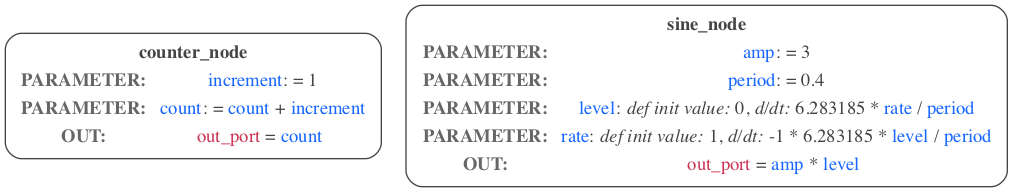
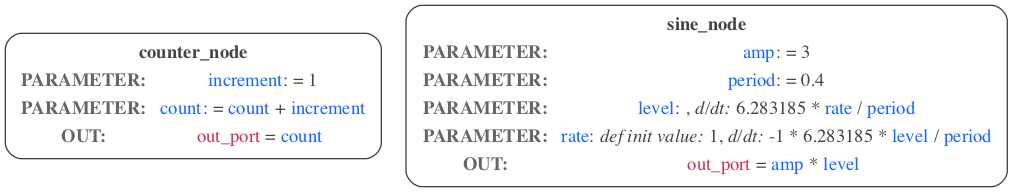
Updates for when default_initial_value is an int

Changed region(s): [[0.5508, 0.5312, 0.9793, 0.5938]]

diff --git a/src/modeci_mdf/interfaces/neuroml/exporter.py b/src/modeci_mdf/interfaces/neuroml/exporter.py
@@ -11,6 +11,7 @@ import neuromllite
 import lems.api as lems
 
 from modeci_mdf.functions.standard import mdf_functions, substitute_args
+from modeci_mdf.execution_engine import evaluate_expr
 
 
 def mdf_to_neuroml(graph, save_to=None, format=None, run_duration_sec=2):
@@ -112,7 +113,7 @@ def mdf_to_neuroml(graph, save_to=None, format=None, run_duration_sec=2):
                         on_start = lems.OnStart()
                         ct.dynamics.add(on_start)
                     sa = lems.StateAssignment(
-                        variable=p.id, value=p.default_initial_value
+                        variable=p.id, value=str(evaluate_expr(p.default_initial_value))
                     )
                     on_start.actions.append(sa)
 

diff --git a/src/modeci_mdf/interfaces/graphviz/exporter.py b/src/modeci_mdf/interfaces/graphviz/exporter.py
@@ -79,6 +79,7 @@ def format_output(s):
 
 def match_in_expr(s, node):
 
+    s = str(s)  # ensure it's a string
     for p in node.parameters:
         if p.id in s:
             s = s.replace(p.id, format_param(p.id))
